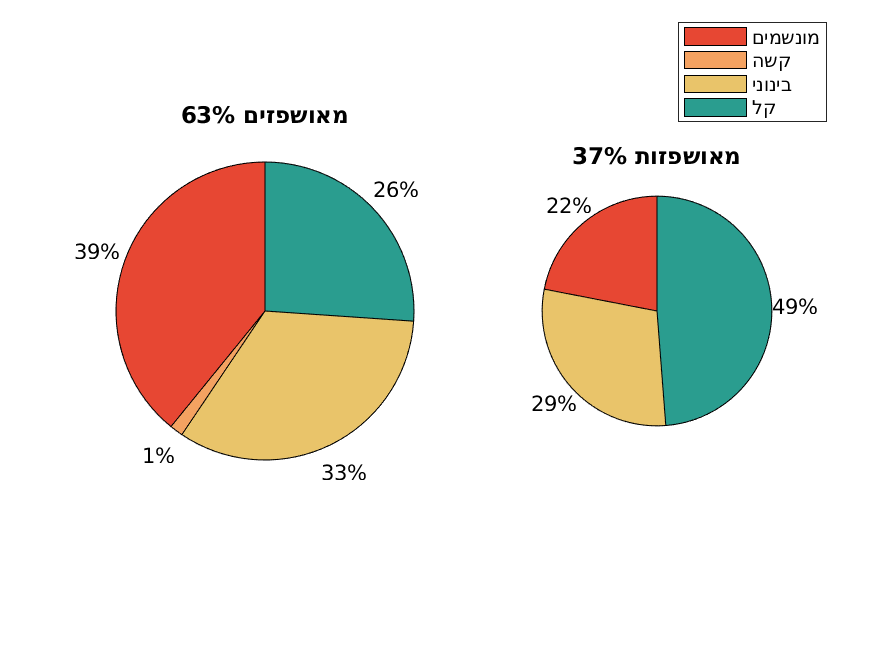
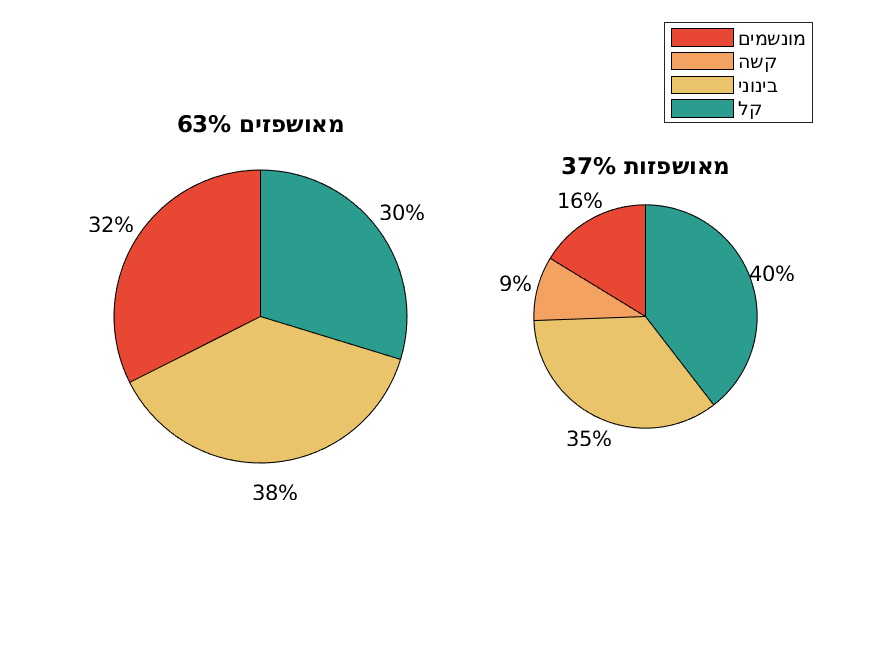
cleanup

diff --git a/code/covid_israel_timna_hosp.m b/code/covid_israel_timna_hosp.m
@@ -46,6 +46,10 @@ male = [male;(100-records.crit_female_percent(end))*records.critical(end)/100-ma
     (100-records.severe_female_percent(end))*records.severe(end)/100;...
     (100-records.mild_female_percent(end))*records.mild(end)/100];
 y = round([male,female]);
+cm = [231,71,51;244,162,97;233,196,106;42,157,143]./255;
+zer = sum(y,2) == 0;
+cm(zer,:) = [];
+[~,legendIn] = max(sum(y > 0));
 ratio = sqrt(sum(y));
 ratio = max(ratio)./ratio;
 per = round(100*sum(y)/sum(sum(y)));
@@ -58,8 +62,11 @@ for ip = 1:2
     xlim([-ratio(ip) ratio(ip)])
     title(titles{ip})
 end
-colormap([231,71,51;244,162,97;233,196,106;42,157,143]./255);
-legend(ph{1}([1,3,5,7]),'מונשמים','קשה','בינוני','קל',[350,275,10,10])
+colormap(cm);
+ih = [1,3,5,7];
+ih(zer) = [];
+legText = {'מונשמים','קשה','בינוני','קל'};
+legend(ph{legendIn}(ih),legText,[350,275,10,10])
 saveas(fig,'docs/Israel_gender.png')
 %% regions in israel
 
